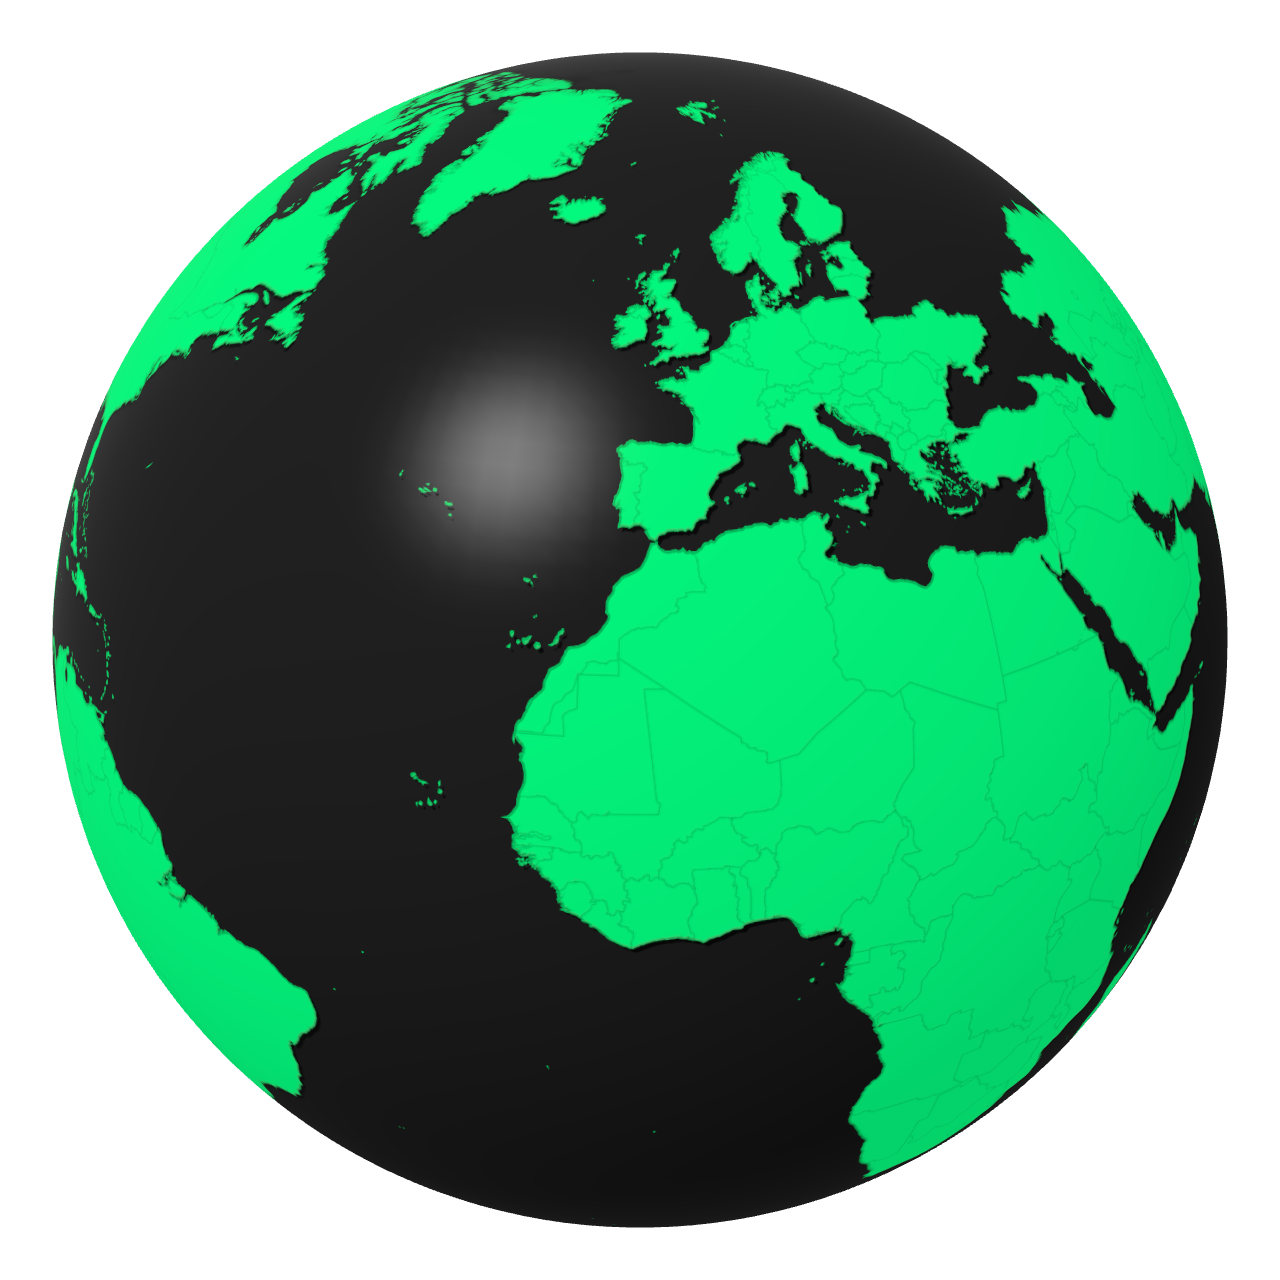
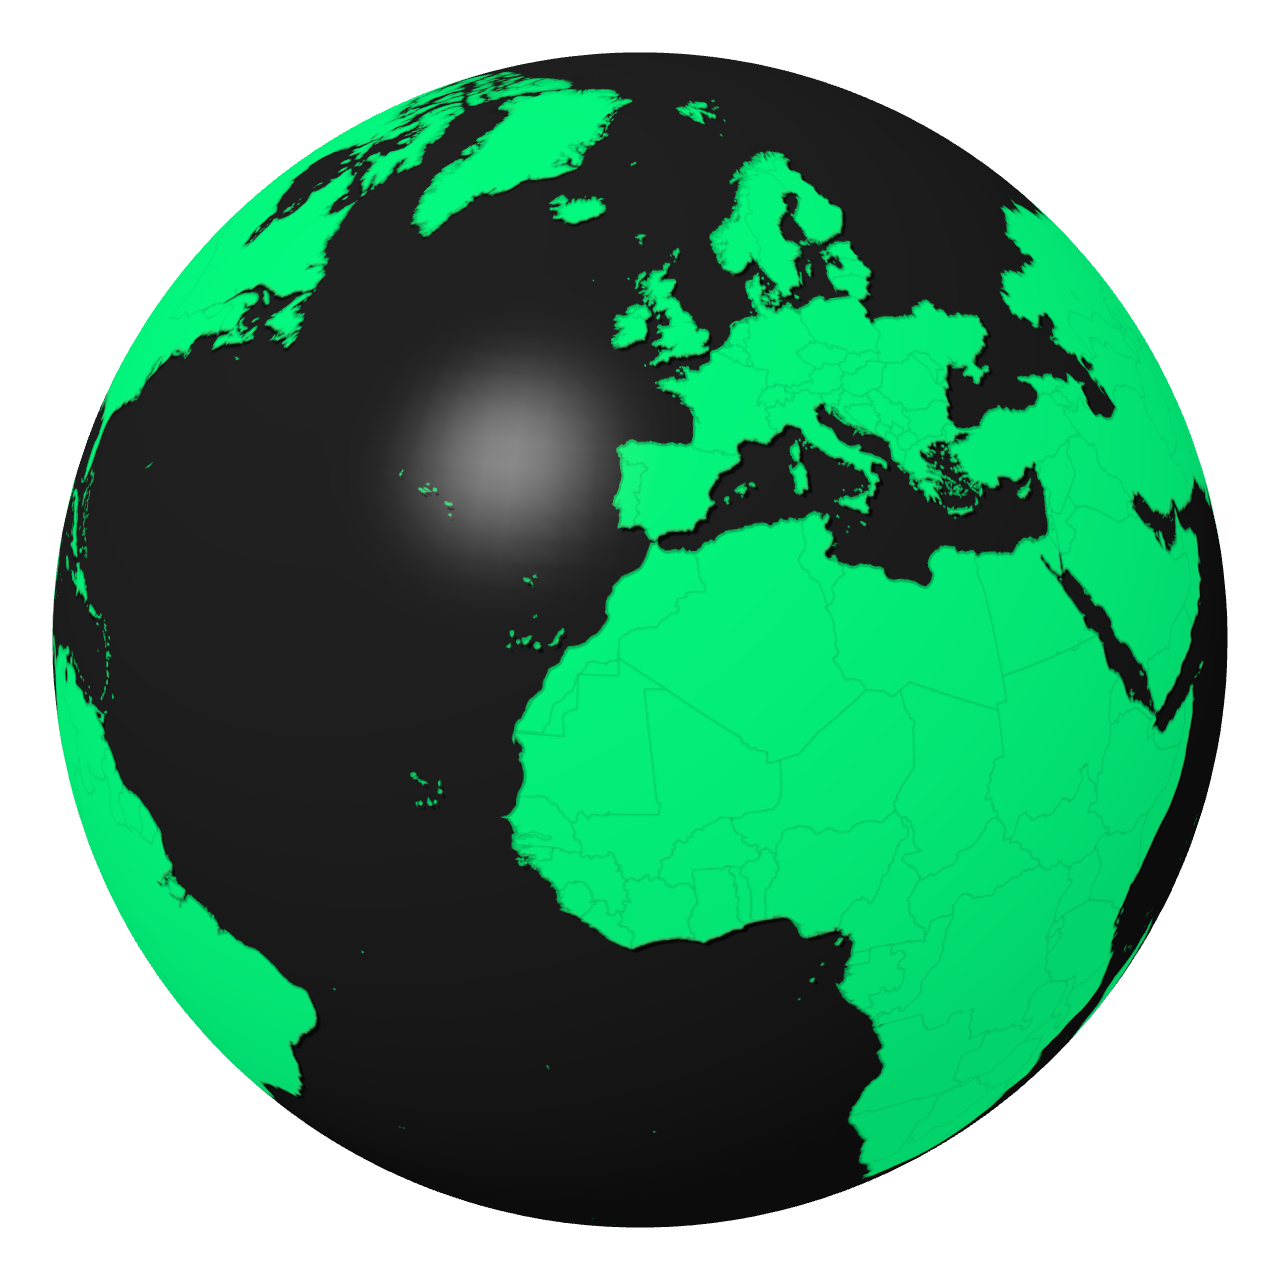
Remove globe rim glow and add lacquer reflections across land and ocean

diff --git a/src/components/globeMaterial.js b/src/components/globeMaterial.js
@@ -44,7 +44,7 @@ export function createGlobeMaterial({ colorMap, reliefMap, relief, rimStrength }
         vec3 color = base * mix(0.25 + 0.75 * lighting.x, 0.68 + 0.32 * lighting.x, land);
         color *= 1.0 - bevel * land * min(relief * 28.0, 0.65);
         color += vec3(0.045) * max(bevelLight, 0.0) * land * min(relief * 85.0, 1.0);
-        color += vec3(lighting.y * mix(0.20, 0.055, land));
+        color += vec3(lighting.y * mix(0.24, 0.11, land));
         float coastShadow = (1.0 - land) * coast.a;
         color *= 1.0 - coastShadow * min(relief * 55.0, 0.85);
         color += vec3(lighting.z) * (1.0 - land * 0.88);

diff --git a/src/components/Globe.jsx b/src/components/Globe.jsx
@@ -14,7 +14,7 @@ export default function Globe({
   oceanColor = '#212121',
   borderColor = '#02e573',
   relief = 0.014,
-  rimStrength = 0.075,
+  rimStrength = 0,
   maxPixelRatio = 2,
   textureWidth = 4096,
   className = '',

diff --git a/docs/INTEGRATION.md b/docs/INTEGRATION.md
@@ -67,7 +67,7 @@ No global Three.js scripts, external APIs, or credentials are needed. Mount once
 | `oceanColor` | `#212121` | Solid sphere color underneath polygons, including excluded areas. |
 | `borderColor` | `#02e573` | Included country outlines. |
 | `relief` | `0.014` | Shader coastline bevel/shadow strength, clamped to 0–0.03. `0` removes the relief illusion. Vertices stay on the sphere to prevent spikes. |
-| `rimStrength` | `0.075` | Soft white edge illumination, clamped to 0–1. `0` removes the rim. |
+| `rimStrength` | `0` | Soft white edge illumination, clamped to 0–1. `0` removes the rim. |
 | `maxPixelRatio` | `2` | Upper device-pixel-ratio limit. Use `1` to reduce fill cost on constrained devices. |
 | `textureWidth` | `4096` | Atlas width, clamped to 512–4096. The height is half the width. Higher values improve close-up boundaries at extra memory/startup cost. |
 | `className`, `style` | none | Apply host layout styles to the wrapper. |
@@ -94,6 +94,6 @@ Land `#03FA7F` and ocean `#212121` are the exact base-color values supplied by t
 
 Ukraine now includes Crimea and Sevastopol; see [geographic provenance](GEOGRAPHY.md). The stape.io reference could not be accessed (HTTP 403), so its rotation period has not been measured. The current default is 60 seconds per turn and can be changed via `rotationPeriod`.
 
-Globe lighting follows the latest glossy reference: the default rim is 0.075, the ocean specular coefficient is 0.20, the land specular coefficient is 0.055, and the coast highlight coefficient is 0.045. The tighter studio reflection (shininess exponent 42) adds a lacquered finish without bloom or an external glow layer. Base land/ocean colors and geography are unchanged.
+Globe lighting follows the latest glossy reference: the default rim is 0 (no edge glow), the ocean specular coefficient is 0.24, the land specular coefficient is 0.11, and the coast highlight coefficient is 0.045. The tighter studio reflection (shininess exponent 42) adds a lacquered finish without bloom or an external glow layer. Base land/ocean colors and geography are unchanged.
 
 Quality defaults are now 4K atlases and up to 2× device pixel density. On constrained devices or when many globes are embedded, use `textureWidth={2048}` and `maxPixelRatio={1}` to reduce texture memory/fill cost. `npm run test:quality` verifies the actual Retina drawing buffer and texture dimensions, and measures the rendered circular alpha contour to catch spiky geometry regressions. It also captures the high-resolution transparent PNG.
